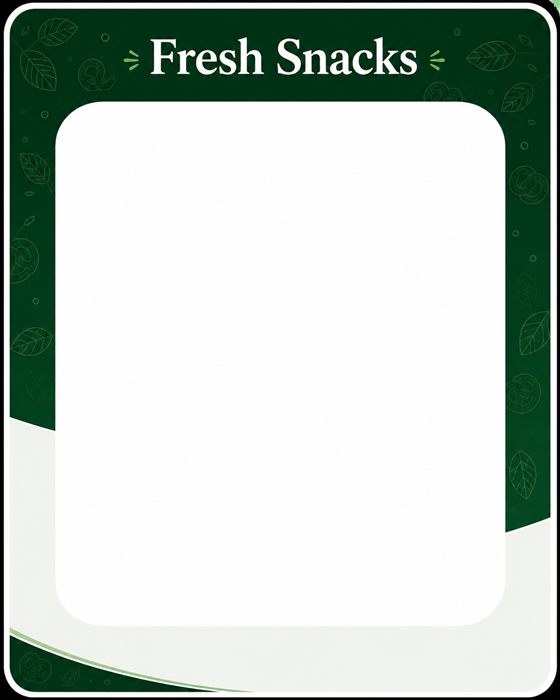
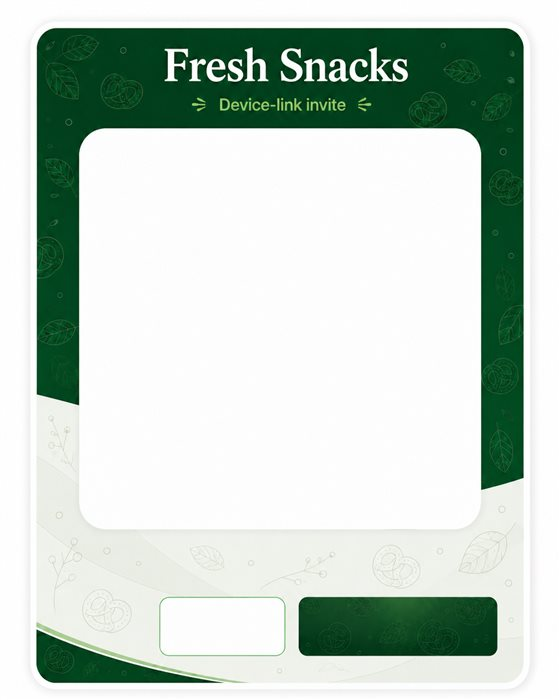
Re-apply invite card template: use the updated frame with baked-in link/button panels
The new frame image bakes in the "Device-link invite" subtitle plus
reserved panels for the link field and copy button (previously those sat
below the card as separate HTML). Repositioned the QR, name/note, link
input, and copy button to the exact fractional bounds of each panel,
measured directly from the source image. The exported/pasted clipboard
image now also draws the link text and button label into their panels
so it reads as a complete card rather than showing empty boxes.

Changed region(s): [[0.0, 0.0, 1.0, 1.0]]

diff --git a/styles.css b/styles.css
@@ -1110,19 +1110,18 @@ textarea:focus {
 /* ---- invite card (compact, no-scroll, branded) ---- */
 
 .invite-modal {
-  width: min(320px, 100%);
+  width: min(340px, 100%);
   padding: 16px;
 }
 
 .invite-card {
   position: relative;
-  aspect-ratio: 4 / 5;
+  aspect-ratio: 1122 / 1402;
   background-image: url("invite-card-frame.jpg");
   background-size: cover;
   background-position: center;
   background-repeat: no-repeat;
   border-radius: 20px;
-  margin-bottom: 14px;
   box-shadow: var(--shadow);
 }
 
@@ -1135,40 +1134,29 @@ textarea:focus {
   z-index: 2;
 }
 
-.invite-card-inner {
+/* these four overlays sit at the exact fractional bounds of the three
+   reserved panels baked into invite-card-frame.jpg (QR box, link-input
+   box, copy-button box), measured directly from the source image */
+.invite-card-qr-area {
   position: absolute;
-  top: 7.5%;
-  left: 10%;
-  right: 10%;
-  bottom: 11%;
+  left: 14.17%;
+  top: 18.33%;
+  width: 71.48%;
+  height: 57.21%;
   display: flex;
   flex-direction: column;
   align-items: center;
   justify-content: center;
-  gap: 6px;
+  gap: 4px;
   text-align: center;
-}
-
-.invite-card .chev {
-  color: var(--green);
-  font-weight: 700;
-  padding: 0 4px;
-}
-
-.invite-card-kicker {
-  margin: 0 0 4px;
-  color: var(--muted);
-  font-size: 12.5px;
-  font-weight: 600;
-  letter-spacing: 0.02em;
 }
 
 .invite-qr-frame {
   display: inline-flex;
   border: 2px solid var(--green);
   border-radius: 12px;
-  padding: 7px;
-  margin-bottom: 8px;
+  padding: 6px;
+  margin-bottom: 6px;
 }
 
 .invite-qr-frame canvas {
@@ -1182,46 +1170,46 @@ textarea:focus {
   margin: 0;
   color: var(--green-dark);
   font-weight: 700;
-  font-size: 14px;
+  font-size: 13px;
 }
 
 .invite-card-note {
-  margin: 2px 0 0;
+  margin: 0;
   color: var(--muted);
-  font-size: 11px;
+  font-size: 10.5px;
+  padding: 0 6px;
 }
 
-.invite-link-field {
-  margin-bottom: 4px;
+.invite-card-link-input {
+  position: absolute;
+  left: 28.25%;
+  top: 85.45%;
+  width: 22.37%;
+  height: 7.99%;
+  border: none;
+  background: transparent;
+  color: var(--green-dark);
+  font-size: 9px;
+  text-align: center;
+  padding: 0 3px;
+  overflow: hidden;
+  text-overflow: ellipsis;
+  cursor: pointer;
 }
 
-.invite-link-row {
-  display: flex;
-  gap: 6px;
-}
-
-.invite-link-row input {
-  flex: 1;
-  font-size: 12px;
-}
-
-.icon-btn {
-  display: inline-flex;
-  align-items: center;
-  justify-content: center;
-  width: 38px;
-  flex-shrink: 0;
-  padding: 0;
-}
-
-.icon-btn svg, .modal-actions svg {
-  width: 16px;
-  height: 16px;
-}
-
-.modal-actions .primary svg {
-  vertical-align: -3px;
-  margin-left: 4px;
+.invite-card-copy-btn {
+  position: absolute;
+  left: 53.3%;
+  top: 85.31%;
+  width: 35.29%;
+  height: 8.2%;
+  border: none;
+  background: transparent;
+  color: #fff;
+  font-weight: 700;
+  font-size: 13px;
+  cursor: pointer;
+  font-family: Arial, Helvetica, sans-serif;
 }
 
 /* ---- linked devices list ---- */

diff --git a/admin.html b/admin.html
@@ -162,35 +162,22 @@
 
       <div class="invite-card">
         <h2 id="invite-modal-title" class="sr-only">Device-link invite</h2>
-        <div class="invite-card-inner">
-          <p class="invite-card-kicker"><span class="chev">&raquo;</span> Device-link invite <span class="chev">&laquo;</span></p>
+
+        <div class="invite-card-qr-area">
           <div class="invite-qr-frame">
             <canvas id="invite-qr-canvas" width="240" height="240"></canvas>
           </div>
-          <p class="invite-card-name"><span class="chev">&raquo;</span> For <span id="invite-card-person">Guest</span> <span class="chev">&laquo;</span></p>
+          <p class="invite-card-name">For <span id="invite-card-person">Guest</span></p>
           <p class="invite-card-note">Scan to link — up to 3 devices per tab</p>
         </div>
+
+        <input id="invite-link-url" class="invite-card-link-input" type="text" readonly aria-label="Invite link" />
+        <button type="button" class="invite-card-copy-btn" id="invite-copy-link">Copy to share</button>
       </div>
 
       <canvas id="invite-canvas" width="560" height="700" class="hidden" aria-hidden="true"></canvas>
 
-      <div class="field wide invite-link-field">
-        <label for="invite-link-url">Invite link</label>
-        <div class="invite-link-row">
-          <input id="invite-link-url" type="text" readonly />
-          <button type="button" class="icon-btn" id="invite-copy-link-only" title="Copy link text" aria-label="Copy link text">
-            <svg viewBox="0 0 24 24" fill="none" stroke="currentColor" stroke-width="2" stroke-linecap="round" stroke-linejoin="round"><rect x="9" y="9" width="12" height="12" rx="2"/><path d="M5 15H4a1 1 0 0 1-1-1V4a1 1 0 0 1 1-1h10a1 1 0 0 1 1 1v1"/></svg>
-          </button>
-        </div>
-      </div>
       <div class="status" id="invite-modal-status"></div>
-      <div class="modal-actions">
-        <button type="button" id="invite-modal-done">Close</button>
-        <button type="button" class="primary" id="invite-copy-link">
-          Copy to share
-          <svg viewBox="0 0 24 24" fill="none" stroke="currentColor" stroke-width="2" stroke-linecap="round" stroke-linejoin="round"><rect x="9" y="9" width="12" height="12" rx="2"/><path d="M5 15H4a1 1 0 0 1-1-1V4a1 1 0 0 1 1-1h10a1 1 0 0 1 1 1v1"/></svg>
-        </button>
-      </div>
     </div>
   </div>
 
@@ -230,7 +217,6 @@
 
     const closeInviteModal = () => $("invite-modal-backdrop").classList.remove("show");
     $("invite-modal-close").onclick = closeInviteModal;
-    $("invite-modal-done").onclick = closeInviteModal;
     $("invite-modal-backdrop").addEventListener("click", (ev) => {
       if (ev.target === $("invite-modal-backdrop")) closeInviteModal();
     });
@@ -241,8 +227,13 @@
     // is preceded by an await (e.g. canvas.toBlob()), silently failing.
     let inviteCardBlob = null;
 
-// bounds of the frame's white panel, measured directly from invite-card-frame.jpg (560x700)
-    const FRAME_BOX = { left: 55, top: 50, right: 504, bottom: 626 };
+// bounds of the frame's three reserved panels, measured directly from
+    // invite-card-frame.jpg (560x700): the QR box, the link-input box, and
+    // the copy-button box. These same fractions drive the on-screen CSS
+    // overlay positions (see .invite-card-qr-area / -link-input / -copy-btn).
+    const QR_BOX = { left: 79, top: 128, right: 480, bottom: 529 };
+    const LINK_BOX = { left: 158, top: 598, right: 284, bottom: 654 };
+    const BUTTON_BOX = { left: 299, top: 597, right: 496, bottom: 655 };
 
     let frameImgPromise = null;
     function loadFrameImage() {
@@ -281,34 +272,52 @@
       const canvas = $("invite-canvas");
       const ctx = canvas.getContext("2d");
       const W = canvas.width, H = canvas.height;
-      const box = FRAME_BOX;
-      const boxW = box.right - box.left, boxCenterX = (box.left + box.right) / 2;
 
       ctx.clearRect(0, 0, W, H);
       ctx.drawImage(frameImg, 0, 0, W, H);
       ctx.textAlign = "center";
 
-      ctx.fillStyle = "#66736a";
-      ctx.font = "600 15px Arial, Helvetica, sans-serif";
-      ctx.fillText("»  Device-link invite  «", boxCenterX, box.top + 34);
-
-      const qrSize = Math.min(boxW - 40, 300);
-      const qrX = boxCenterX - qrSize / 2;
-      const qrY = box.top + 52;
+      // QR + name + note, inside the frame's reserved white box
+      const qrBoxCenterX = (QR_BOX.left + QR_BOX.right) / 2;
+      const qrSize = 210;
+      const qrX = qrBoxCenterX - qrSize / 2;
+      const qrY = QR_BOX.top + 22;
       ctx.strokeStyle = "#2f7a44";
       ctx.lineWidth = 2.4;
-      roundRectPath(ctx, qrX - 10, qrY - 10, qrSize + 20, qrSize + 20, 12);
+      roundRectPath(ctx, qrX - 9, qrY - 9, qrSize + 18, qrSize + 18, 12);
       ctx.stroke();
       ctx.drawImage(qrImg, qrX, qrY, qrSize, qrSize);
 
       ctx.fillStyle = "#184f2a";
-      ctx.font = "700 22px Arial, Helvetica, sans-serif";
-      ctx.fillText(`»  For ${name}  «`, boxCenterX, qrY + qrSize + 42);
+      ctx.font = "700 19px Arial, Helvetica, sans-serif";
+      ctx.fillText(`For ${name}`, qrBoxCenterX, qrY + qrSize + 32);
       ctx.fillStyle = "#66736a";
-      ctx.font = "400 14px Arial, Helvetica, sans-serif";
-      ctx.fillText("Scan to link — up to 3 devices per tab", boxCenterX, qrY + qrSize + 65);
+      ctx.font = "400 13px Arial, Helvetica, sans-serif";
+      ctx.fillText("Scan to link — up to 3 devices per tab", qrBoxCenterX, qrY + qrSize + 54);
+
+      // link text + button label, inside their own reserved boxes, so the
+      // exported/pasted image looks complete (these boxes hold live <input>/
+      // <button> elements on screen, but a static PNG needs the text drawn)
+      ctx.fillStyle = "#184f2a";
+      ctx.font = "400 11px Arial, Helvetica, sans-serif";
+      const linkBoxCenterX = (LINK_BOX.left + LINK_BOX.right) / 2;
+      const linkBoxCenterY = (LINK_BOX.top + LINK_BOX.bottom) / 2 + 4;
+      ctx.fillText(fitText(ctx, url, LINK_BOX.right - LINK_BOX.left - 12), linkBoxCenterX, linkBoxCenterY);
+
+      ctx.fillStyle = "#ffffff";
+      ctx.font = "700 15px Arial, Helvetica, sans-serif";
+      const btnBoxCenterX = (BUTTON_BOX.left + BUTTON_BOX.right) / 2;
+      const btnBoxCenterY = (BUTTON_BOX.top + BUTTON_BOX.bottom) / 2 + 5;
+      ctx.fillText("Copy to share", btnBoxCenterX, btnBoxCenterY);
 
       inviteCardBlob = await new Promise((resolve) => canvas.toBlob(resolve, "image/png"));
+    }
+
+    function fitText(ctx, text, maxWidth) {
+      if (ctx.measureText(text).width <= maxWidth) return text;
+      let s = text;
+      while (s.length > 1 && ctx.measureText(s + "…").width > maxWidth) s = s.slice(0, -1);
+      return s + "…";
     }
 
     function roundRectPath(ctx, x, y, w, h, r) {
@@ -356,16 +365,9 @@
       }
     };
 
-    $("invite-copy-link-only").onclick = async () => {
-      const url = $("invite-link-url").value;
-      try {
-        await navigator.clipboard.writeText(url);
-        status("invite-modal-status", "Link copied.", true);
-      } catch (e) {
-        $("invite-link-url").select();
-        status("invite-modal-status", "Press Ctrl+C to copy (clipboard access was blocked).", false);
-      }
-    };
+    // clicking the (visually tiny, truncated) link field selects its full
+    // value so Ctrl+C still works even though only part of the URL is shown
+    $("invite-link-url").onclick = () => $("invite-link-url").select();
 
     const closeDevicesModal = () => $("devices-modal-backdrop").classList.remove("show");
     $("devices-modal-close").onclick = closeDevicesModal;